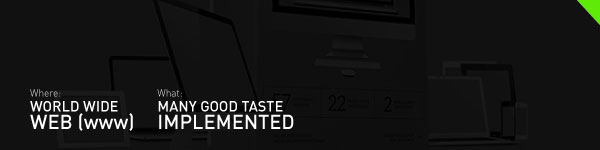
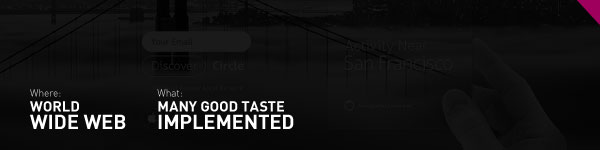
Thumbnails de UI/UX cambiados, Pate.html actualizado

Changed region(s): [[0.03, 0.6667, 0.51, 0.88], [0.96, 0.0, 1.0, 0.1867]]

diff --git a/uiux/pate.html b/uiux/pate.html
@@ -15,8 +15,8 @@
       
       <nav>
         <ul>
-          <li><a href="meInWords.html">This is Me in Words</a></li>
-          <li><a href="whoYouGonnaCall.html">Reach Me</a></li>
+          <li><a href="../meInWords.html">This is Me in Words</a></li>
+          <li><a href="../whoYouGonnaCall.html">Reach Me</a></li>
           <li><a href="http://bling4all.tumblr.com">Blog</a></li>
           <li><a href="https://medium.com/@hardcorebobbyd">Medium</a></li>
         </ul>
@@ -29,12 +29,15 @@
     </div>
     <div id="descripcion">
       <h4>UI, UX visual concepting and branding </h4>
-      <p>- I worked in a new way to buy flowers adding UX and a branding focused on men.</p>
+      <p>- I worked in a new way to buy flowers adding UX and a branding focused on men. Here is the HOME page:</p>
     </div>
     <br>
 
     <img src="img/1pate.png" alt="Pate Flores" id="headerPieza" width="600">
     <div id="divPiezas"></div>
+
+    <p></p>
+    <br>
     <img src="img/2pate.png" alt="Pate Flores" id="headerPieza" width="600">
 
     <div class="bottom-footer"></div>
